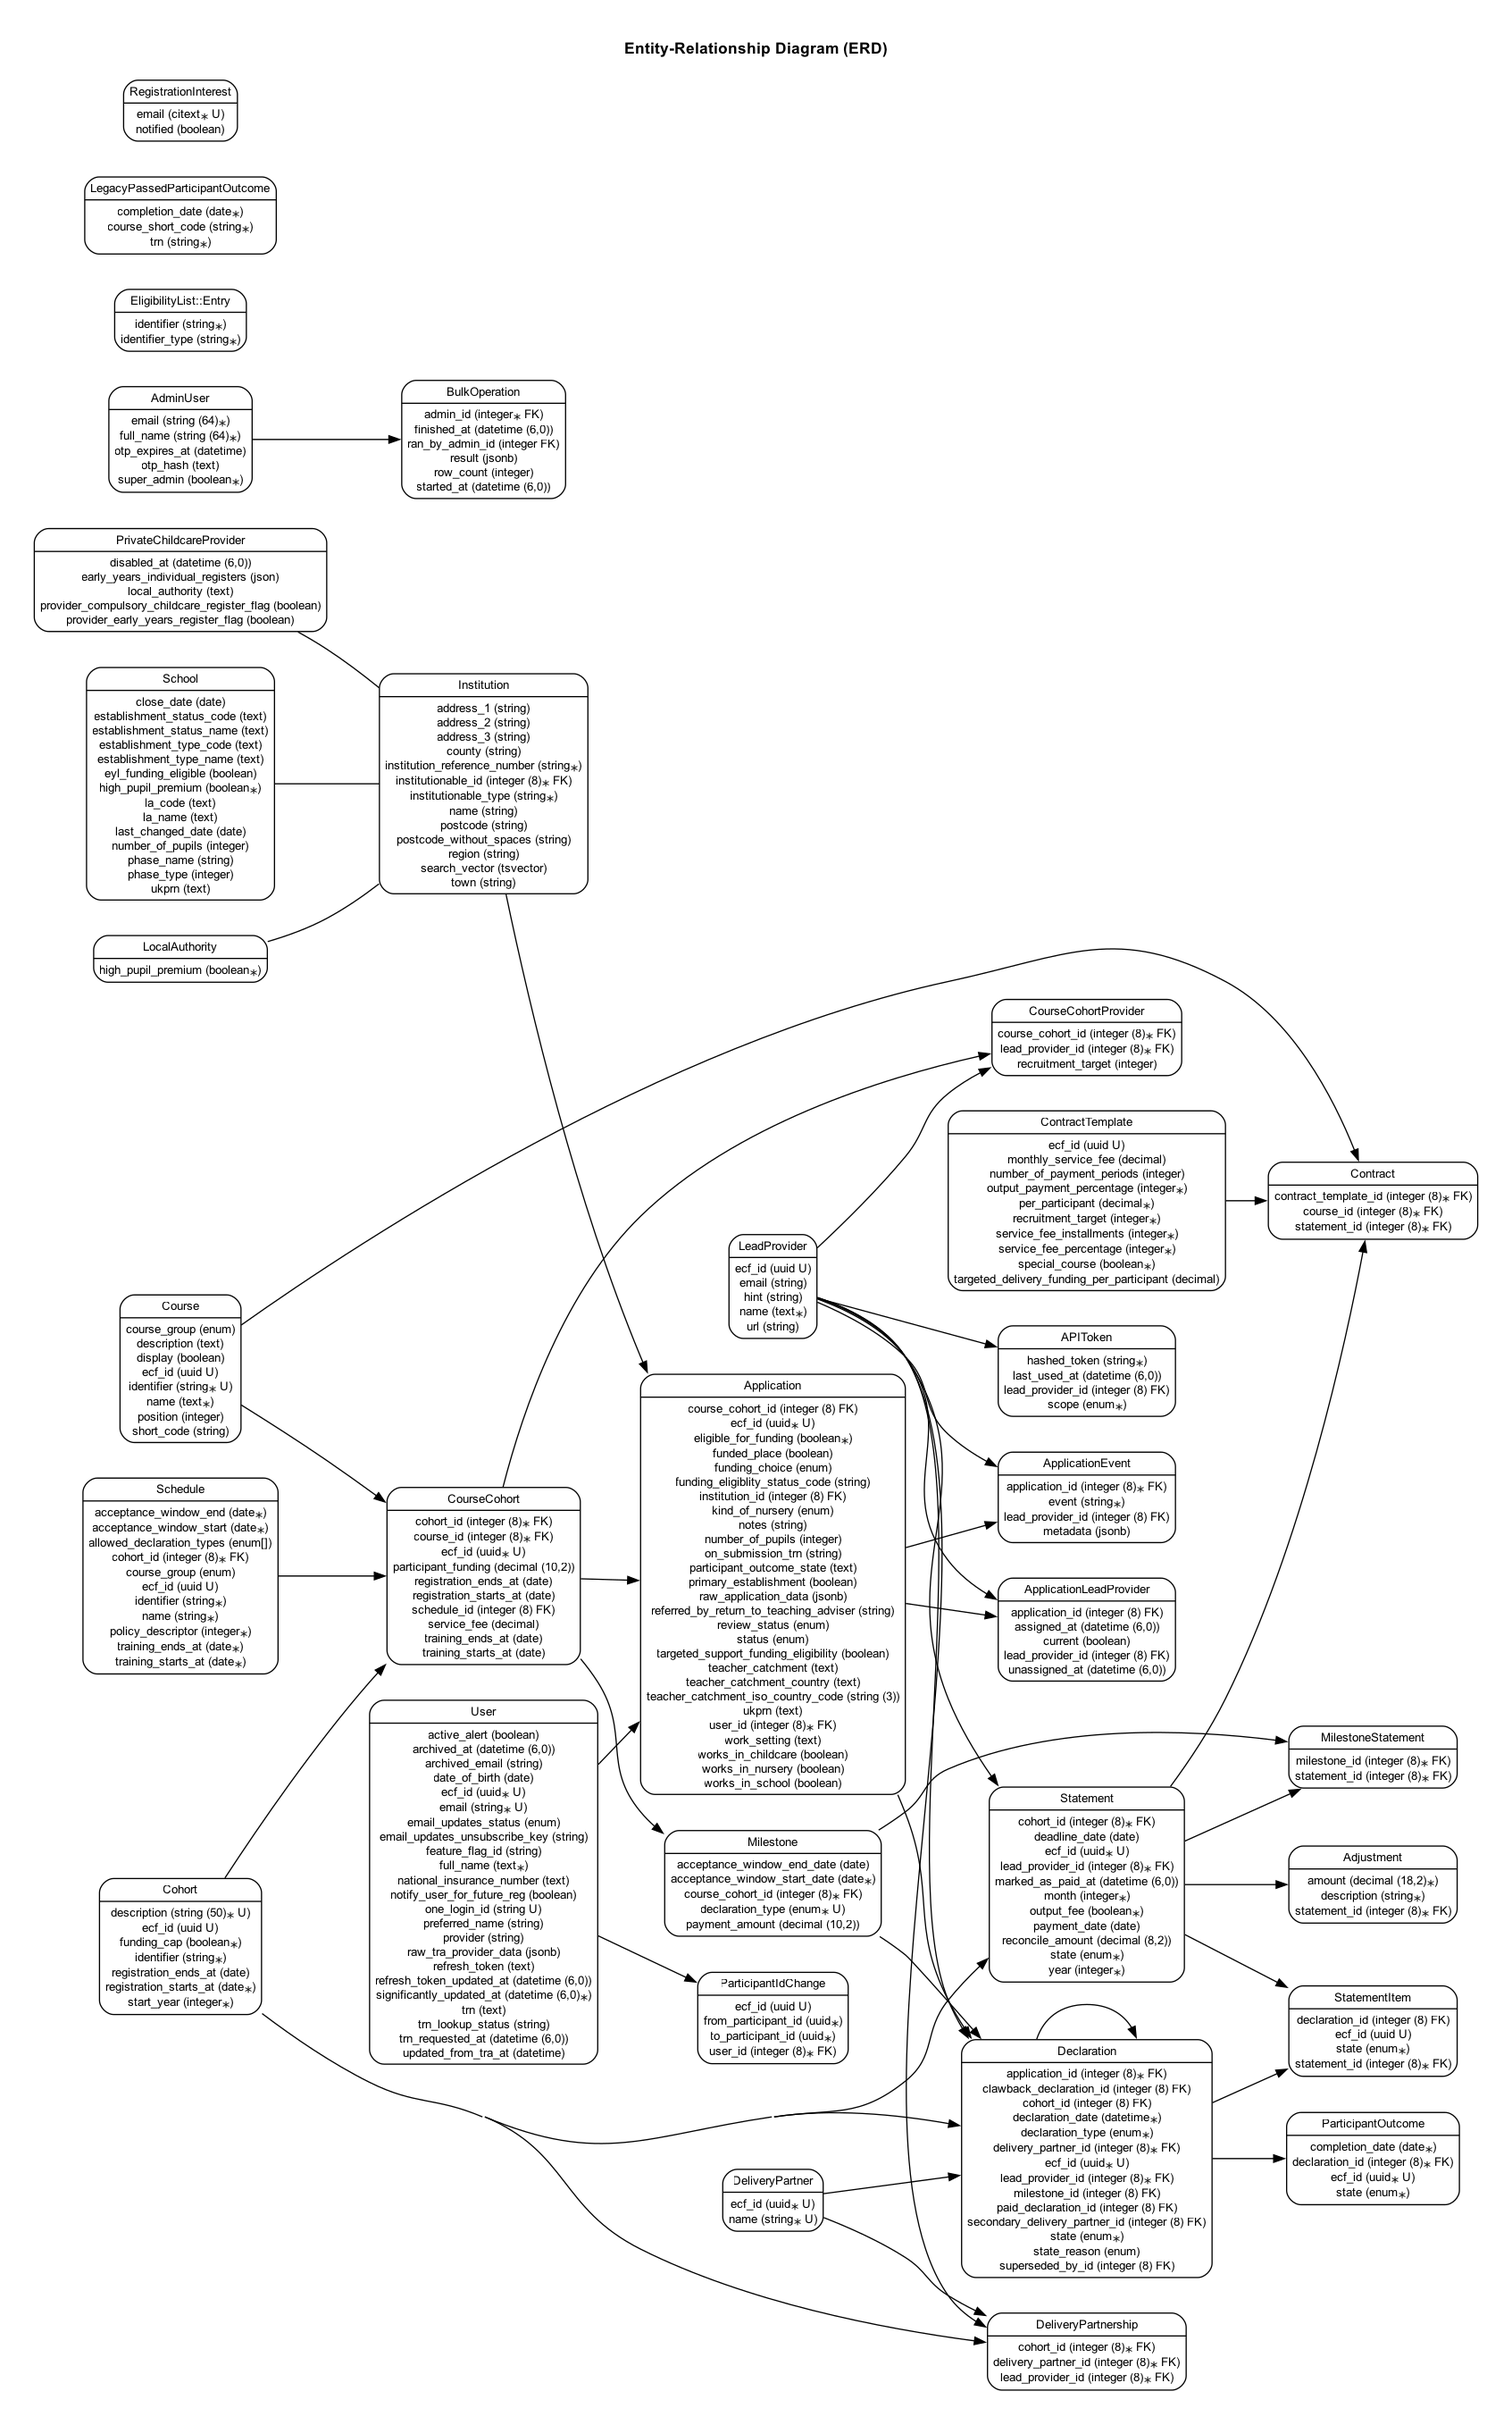
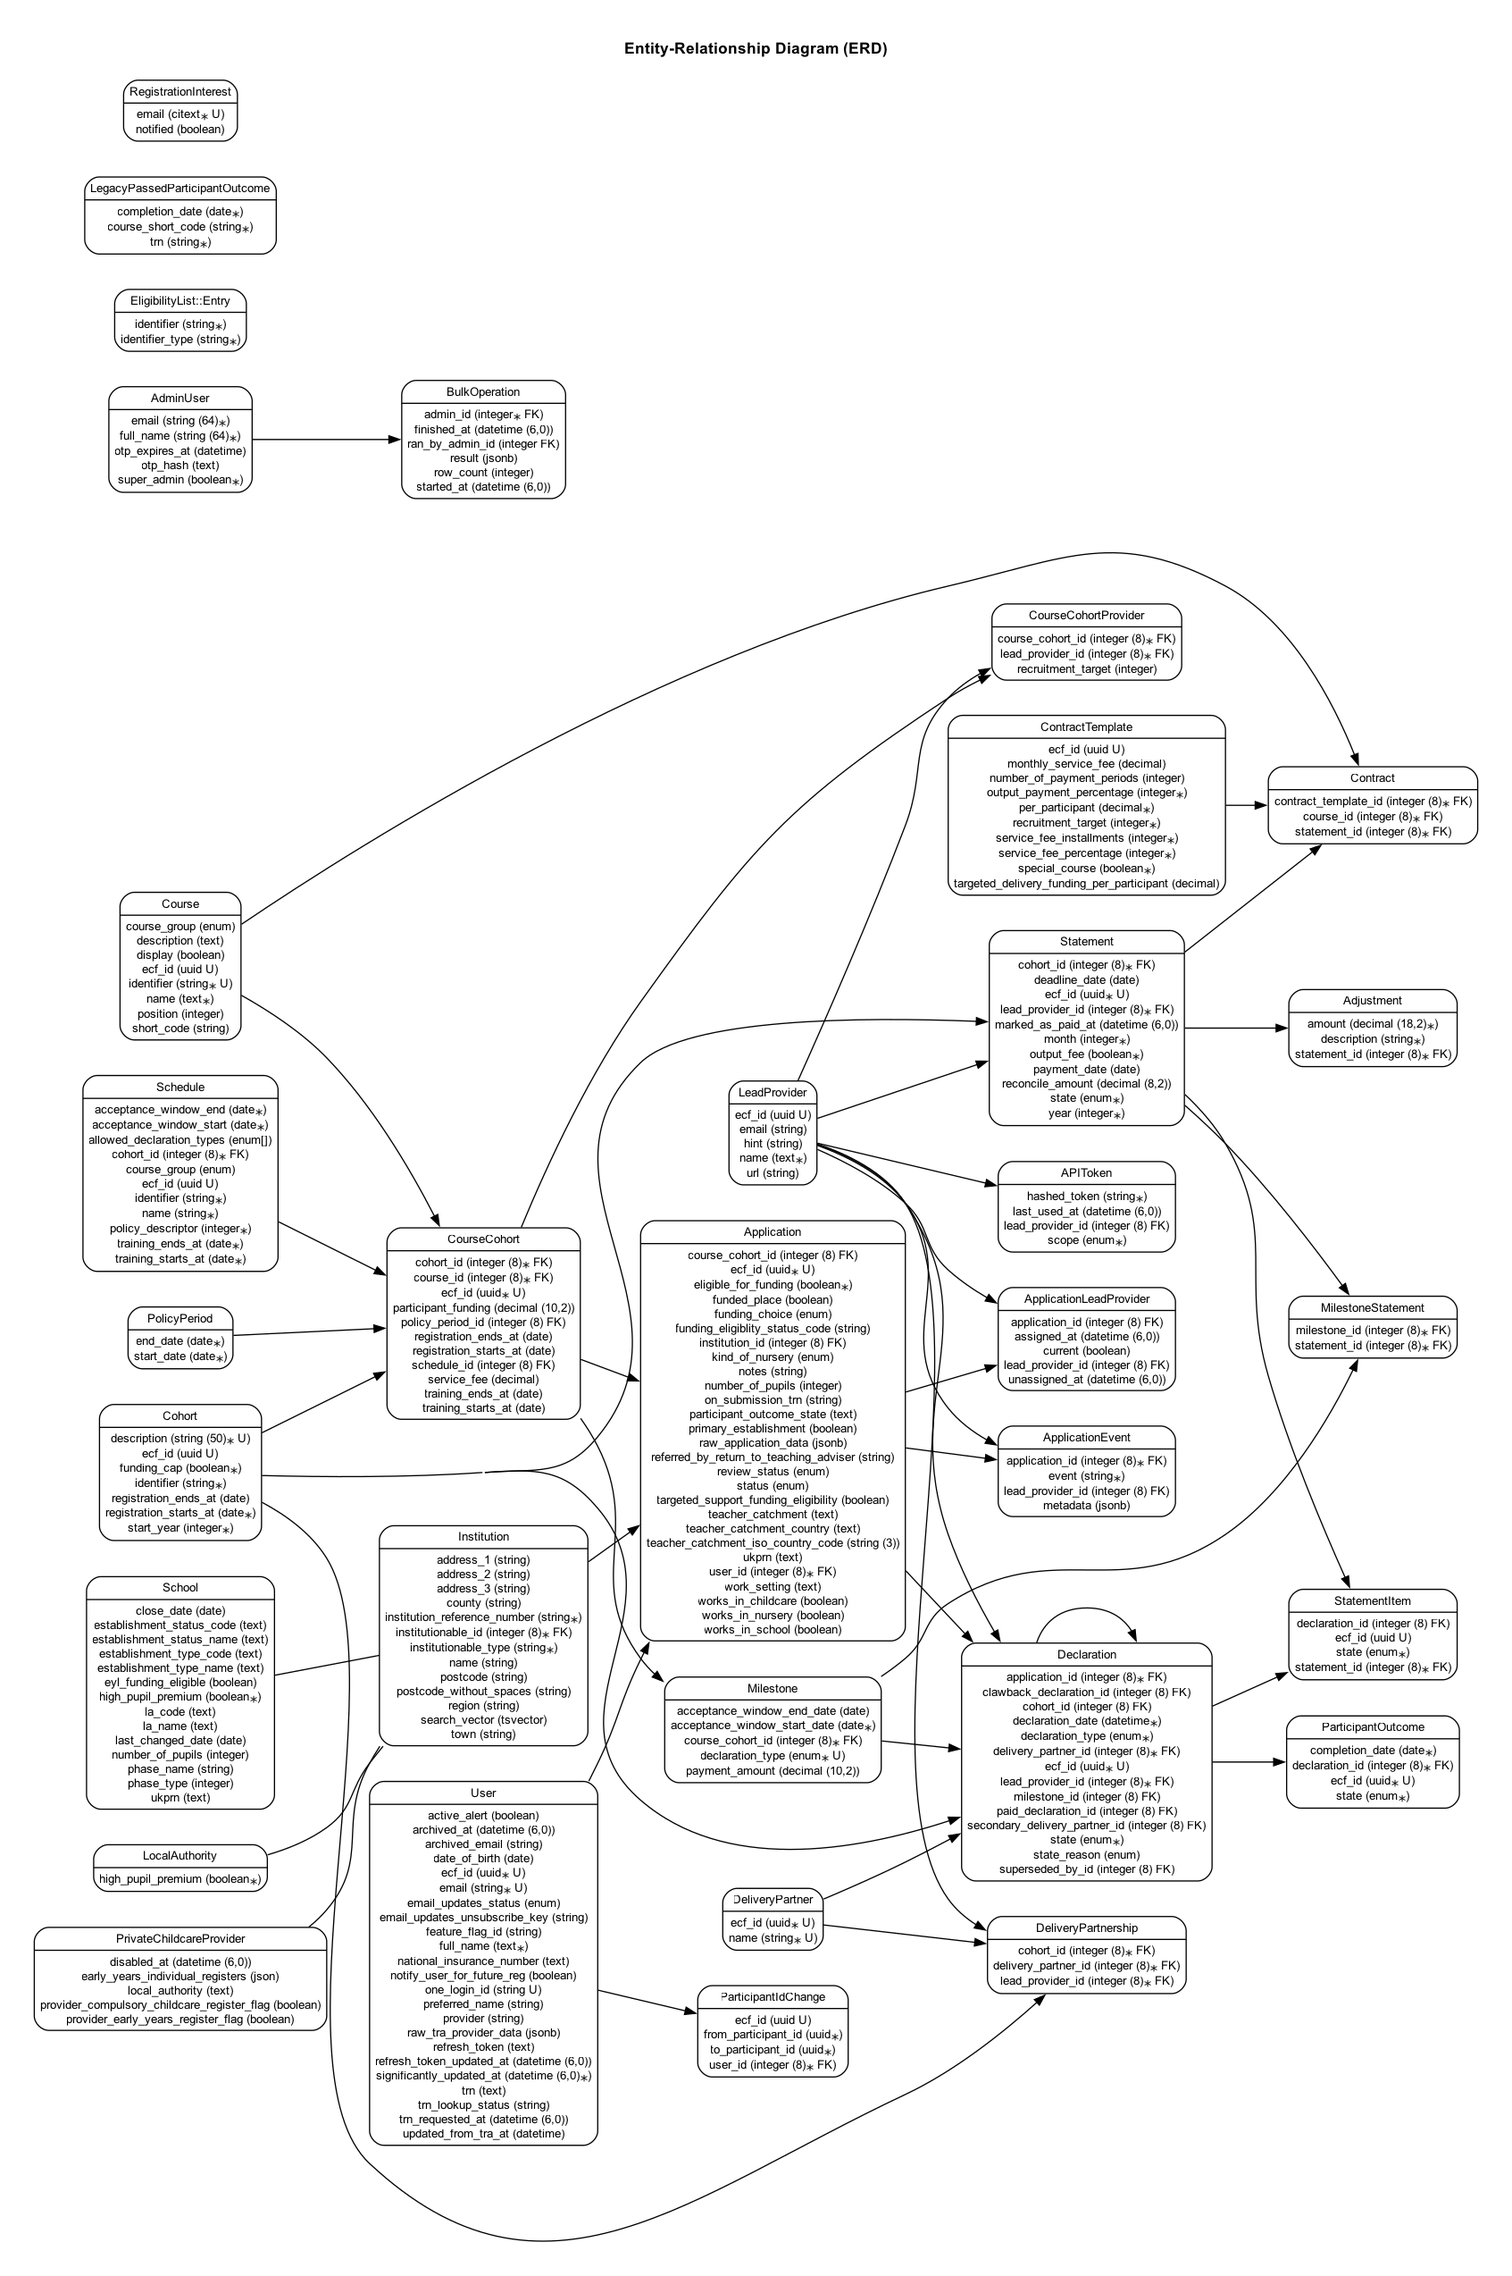
breakpoint

diff --git a/app/controllers/admin/course_builder_controller.rb b/app/controllers/admin/course_builder_controller.rb
@@ -47,7 +47,7 @@ private
   end
 
   def current_step
-    @current_step ||= params.fetch(:step, "create-cohort").underscore.to_sym
+    @current_step ||= params.fetch(:step, "choose-course").underscore.to_sym
   end
 
   def current_step_template
@@ -59,6 +59,8 @@ private
   end
 
   def redirect_to_next_step
+    return redirect_to_create_another_course_cohort if adding_another_course_cohort?
+
     persist_milestone_step
 
     if adding_another_milestone?
@@ -69,6 +71,17 @@ private
       flash[:success] = "Course builder saved"
       redirect_to admin_courses_path
     end
+  end
+
+  def adding_another_course_cohort?
+    current_step == :create_course_cohort && params[:next_step] == "create_another"
+  end
+
+  def redirect_to_create_another_course_cohort
+    persist_course_cohort_step
+    reset_course_cohort_steps
+
+    redirect_to @wizard.current_step_path
   end
 
   def adding_another_milestone?
@@ -112,21 +125,41 @@ private
     )
   end
 
+  def persist_course_cohort_step
+    @wizard.write_state(course_cohorts: @wizard.course_cohorts + [current_course_cohort_attributes])
+  end
+
+  def reset_course_cohort_steps
+    @wizard.write_state(
+      participant_funding: nil,
+      service_fee: nil,
+      registration_starts_at: nil,
+      registration_ends_at: nil,
+      training_starts_at: nil,
+      training_ends_at: nil,
+    )
+  end
+
   def render_not_found
     render status: :not_found, formats: [:html], template: "errors/not_found"
   end
 
   def create_records
     ActiveRecord::Base.transaction do
+      policy_period = PolicyPeriod.create!(policy_period_attributes)
       cohort = Cohort.create!(cohort_attributes)
-      course = Course.find(course_id)
-      course_cohort = CourseCohort.create!(course:, cohort:, **course_cohort_attributes)
+      course_cohorts = all_course_cohort_attributes.map do |attributes|
+        course = Course.find(attributes.fetch(:course_id))
+        course_cohort = CourseCohort.create!(course:, cohort:, policy_period:, **attributes.fetch(:attributes))
 
-      milestone_attributes.each do |attributes|
-        course_cohort.milestones.create!(attributes)
+        milestone_attributes.each do |milestone|
+          course_cohort.milestones.create!(milestone)
+        end
+
+        course_cohort
       end
 
-      course_cohort
+      course_cohorts.first
     end
   end
 
@@ -139,8 +172,33 @@ private
     )
   end
 
+  def all_course_cohort_attributes
+    (@wizard.course_cohorts + [current_course_cohort_attributes])
+      .map(&:with_indifferent_access)
+      .reject { |attributes| attributes[:course_id].blank? || course_cohort_attributes_blank?(attributes.fetch(:attributes, {})) }
+      .uniq { |attributes| attributes[:course_id].to_s }
+  end
+
+  def course_cohort_attributes_blank?(attributes)
+    attributes.values.all?(&:blank?)
+  end
+
+  def current_course_cohort_attributes
+    {
+      course_id:,
+      attributes: course_cohort_attributes,
+    }
+  end
+
   def course_id
     step_data(:choose_course).fetch(:course_id)
+  end
+
+  def policy_period_attributes
+    step_data(:create_policy_period).slice(
+      :start_date,
+      :end_date,
+    )
   end
 
   def course_cohort_attributes

diff --git a/db/schema.rb b/db/schema.rb
@@ -10,7 +10,7 @@
 #
 # It's strongly recommended that you check this file into your version control system.
 
-ActiveRecord::Schema[8.1].define(version: 2026_07_23_120000) do
+ActiveRecord::Schema[8.1].define(version: 2026_07_24_100100) do
   # These are extensions that must be enabled in order to support this database
   enable_extension "btree_gin"
   enable_extension "citext"
@@ -238,6 +238,7 @@ ActiveRecord::Schema[8.1].define(version: 2026_07_23_120000) do
     t.datetime "created_at", null: false
     t.uuid "ecf_id", default: -> { "gen_random_uuid()" }, null: false
     t.decimal "participant_funding", precision: 10, scale: 2
+    t.bigint "policy_period_id"
     t.date "registration_ends_at"
     t.date "registration_starts_at"
     t.bigint "schedule_id"
@@ -249,6 +250,7 @@ ActiveRecord::Schema[8.1].define(version: 2026_07_23_120000) do
     t.index ["course_id", "cohort_id"], name: "index_course_cohorts_on_course_id_and_cohort_id", unique: true
     t.index ["course_id"], name: "index_course_cohorts_on_course_id"
     t.index ["ecf_id"], name: "index_course_cohorts_on_ecf_id", unique: true
+    t.index ["policy_period_id"], name: "index_course_cohorts_on_policy_period_id"
     t.index ["schedule_id"], name: "index_course_cohorts_on_schedule_id"
   end
 
@@ -480,6 +482,13 @@ ActiveRecord::Schema[8.1].define(version: 2026_07_23_120000) do
     t.index ["ecf_id"], name: "index_participant_outcomes_on_ecf_id", unique: true
   end
 
+  create_table "policy_periods", force: :cascade do |t|
+    t.datetime "created_at", null: false
+    t.date "end_date", null: false
+    t.date "start_date", null: false
+    t.datetime "updated_at", null: false
+  end
+
   create_table "private_childcare_providers", force: :cascade do |t|
     t.datetime "created_at", null: false
     t.datetime "disabled_at"
@@ -648,6 +657,7 @@ ActiveRecord::Schema[8.1].define(version: 2026_07_23_120000) do
   add_foreign_key "course_cohort_providers", "lead_providers"
   add_foreign_key "course_cohorts", "cohorts"
   add_foreign_key "course_cohorts", "courses"
+  add_foreign_key "course_cohorts", "policy_periods", validate: false
   add_foreign_key "declarations", "applications"
   add_foreign_key "declarations", "cohorts"
   add_foreign_key "declarations", "declarations", column: "superseded_by_id"

diff --git a/app/wizards/admin/course_builder/steps/create_cohort.rb b/app/wizards/admin/course_builder/steps/create_cohort.rb
@@ -5,11 +5,26 @@ module Admin
         include DfE::Wizard::Step
 
         attribute :description, :string
-        attribute :registration_starts_at, :date
-        attribute :registration_ends_at, :date
+        attribute :registration_starts_at, :date, default: -> { Admin::CourseBuilder::Steps::CreateCohort.default_registration_starts_at }
+        attribute :registration_ends_at, :date, default: -> { Admin::CourseBuilder::Steps::CreateCohort.default_registration_ends_at }
         attribute :funding_cap, :boolean
 
         validates :description, :registration_starts_at, presence: true
+
+        def initialize(attributes = {})
+          super
+
+          self.registration_starts_at ||= self.class.default_registration_starts_at
+          self.registration_ends_at ||= self.class.default_registration_ends_at
+        end
+
+        def self.default_registration_starts_at
+          Time.zone.today.next_month.beginning_of_month
+        end
+
+        def self.default_registration_ends_at
+          Time.zone.today.advance(months: 2).beginning_of_month
+        end
 
         def self.permitted_params
           %i[

diff --git a/app/wizards/admin/course_builder/wizard.rb b/app/wizards/admin/course_builder/wizard.rb
@@ -5,8 +5,9 @@ module Admin
 
       def steps_processor
         @steps_processor ||= DfE::Wizard::StepsProcessor::Linear.draw(self) do |linear|
-          linear.add_step :create_cohort, Steps::CreateCohort
           linear.add_step :choose_course, Steps::ChooseCourse
+          linear.add_step :create_policy_period, Steps::CreatePolicyPeriod
+          linear.add_step :create_cohort, Steps::CreateCohort
           linear.add_step :create_course_cohort, Steps::CreateCourseCohort
           linear.add_step :create_milestone, Steps::CreateMilestone
           linear.add_step :check_answers, Steps::CheckAnswers, exit: true
@@ -24,6 +25,10 @@ module Admin
 
       def milestones
         Array(state_store.read.with_indifferent_access[:milestones])
+      end
+
+      def course_cohorts
+        Array(state_store.read.with_indifferent_access[:course_cohorts])
       end
     end
   end

diff --git a/app/wizards/admin/course_builder/steps/create_course_cohort.rb b/app/wizards/admin/course_builder/steps/create_course_cohort.rb
@@ -13,6 +13,15 @@ module Admin
 
         validates :participant_funding, :service_fee, numericality: { greater_than_or_equal_to: 0 }, allow_nil: true
 
+        def initialize(attributes = {})
+          super
+
+          self.registration_starts_at ||= cohort_step.registration_starts_at
+          self.registration_ends_at ||= cohort_step.registration_ends_at
+          self.training_starts_at ||= registration_ends_at&.advance(months: 1)
+          self.training_ends_at ||= registration_ends_at&.advance(months: 3)
+        end
+
         def self.permitted_params
           %i[
             participant_funding
@@ -22,6 +31,12 @@ module Admin
             training_starts_at
             training_ends_at
           ]
+        end
+
+      private
+
+        def cohort_step
+          wizard.step(:create_cohort)
         end
       end
     end

diff --git a/app/wizards/admin/course_builder/steps/create_milestone.rb b/app/wizards/admin/course_builder/steps/create_milestone.rb
@@ -13,6 +13,13 @@ module Admin
         validates :declaration_type, inclusion: Milestone::DECLARATION_TYPES
         validates :payment_amount, numericality: { greater_than_or_equal_to: 0 }, allow_nil: true
 
+        def initialize(attributes = {})
+          super
+
+          self.acceptance_window_start_date ||= default_acceptance_window_start_date
+          self.acceptance_window_end_date ||= acceptance_window_start_date&.advance(months: 2)
+        end
+
         def self.permitted_params
           %i[
             declaration_type
@@ -20,6 +27,12 @@ module Admin
             acceptance_window_end_date
             payment_amount
           ]
+        end
+
+      private
+
+        def default_acceptance_window_start_date
+          wizard&.step(:create_course_cohort)&.training_ends_at
         end
       end
     end

diff --git a/app/wizards/admin/course_builder/steps/create_policy_period.rb b/app/wizards/admin/course_builder/steps/create_policy_period.rb
@@ -1,0 +1,29 @@
+module Admin
+  module CourseBuilder
+    module Steps
+      class CreatePolicyPeriod
+        include DfE::Wizard::Step
+
+        attribute :start_date, :date, default: -> { Admin::CourseBuilder::Steps::CreatePolicyPeriod.default_start_date }
+        attribute :end_date, :date, default: -> { Admin::CourseBuilder::Steps::CreatePolicyPeriod.default_end_date }
+
+        validates :start_date, :end_date, presence: true
+
+        def self.default_start_date
+          Time.zone.today.next_month.beginning_of_month
+        end
+
+        def self.default_end_date
+          default_start_date.advance(years: 3)
+        end
+
+        def self.permitted_params
+          %i[
+            start_date
+            end_date
+          ]
+        end
+      end
+    end
+  end
+end

diff --git a/spec/models/course_cohort_spec.rb b/spec/models/course_cohort_spec.rb
@@ -6,7 +6,8 @@ RSpec.describe CourseCohort do
   describe "relationships" do
     it { is_expected.to belong_to(:course) }
     it { is_expected.to belong_to(:cohort) }
-    it { is_expected.to belong_to(:schedule) }
+    it { is_expected.to belong_to(:policy_period) }
+    it { is_expected.to belong_to(:schedule).optional }
     it { is_expected.to have_many(:course_cohort_providers).dependent(:destroy) }
     it { is_expected.to have_many(:lead_providers).through(:course_cohort_providers) }
     it { is_expected.to have_many(:milestones).dependent(:destroy) }

diff --git a/db/migrate/20260724100000_create_policy_periods.rb b/db/migrate/20260724100000_create_policy_periods.rb
@@ -1,0 +1,14 @@
+class CreatePolicyPeriods < ActiveRecord::Migration[7.1]
+  disable_ddl_transaction!
+
+  def change
+    create_table :policy_periods do |t|
+      t.date :start_date, null: false
+      t.date :end_date, null: false
+
+      t.timestamps
+    end
+
+    add_reference :course_cohorts, :policy_period, index: { algorithm: :concurrently }
+  end
+end

diff --git a/config/routes/admin.rb b/config/routes/admin.rb
@@ -28,7 +28,7 @@ namespace :admin do
     end
   end
 
-  get "course-builder", to: redirect("/admin/course-builder/create-cohort")
+  get "course-builder", to: redirect("/admin/course-builder/choose-course")
   get "course-builder/:step", to: "course_builder#show", as: :course_builder_step
   patch "course-builder/:step", to: "course_builder#update"
 

diff --git a/spec/models/policy_period_spec.rb b/spec/models/policy_period_spec.rb
@@ -1,0 +1,12 @@
+require "rails_helper"
+
+RSpec.describe PolicyPeriod, type: :model do
+  describe "relationships" do
+    it { is_expected.to have_many(:course_cohorts) }
+  end
+
+  describe "validations" do
+    it { is_expected.to validate_presence_of(:start_date) }
+    it { is_expected.to validate_presence_of(:end_date) }
+  end
+end

diff --git a/spec/factories/course_cohorts.rb b/spec/factories/course_cohorts.rb
@@ -2,6 +2,7 @@ FactoryBot.define do
   factory :course_cohort do
     association :course, factory: :"tte-early-years"
     cohort
+    policy_period
 
     schedule do
       CourseCohort.find_by(course:, cohort:)&.schedule || create(:schedule, cohort:)
